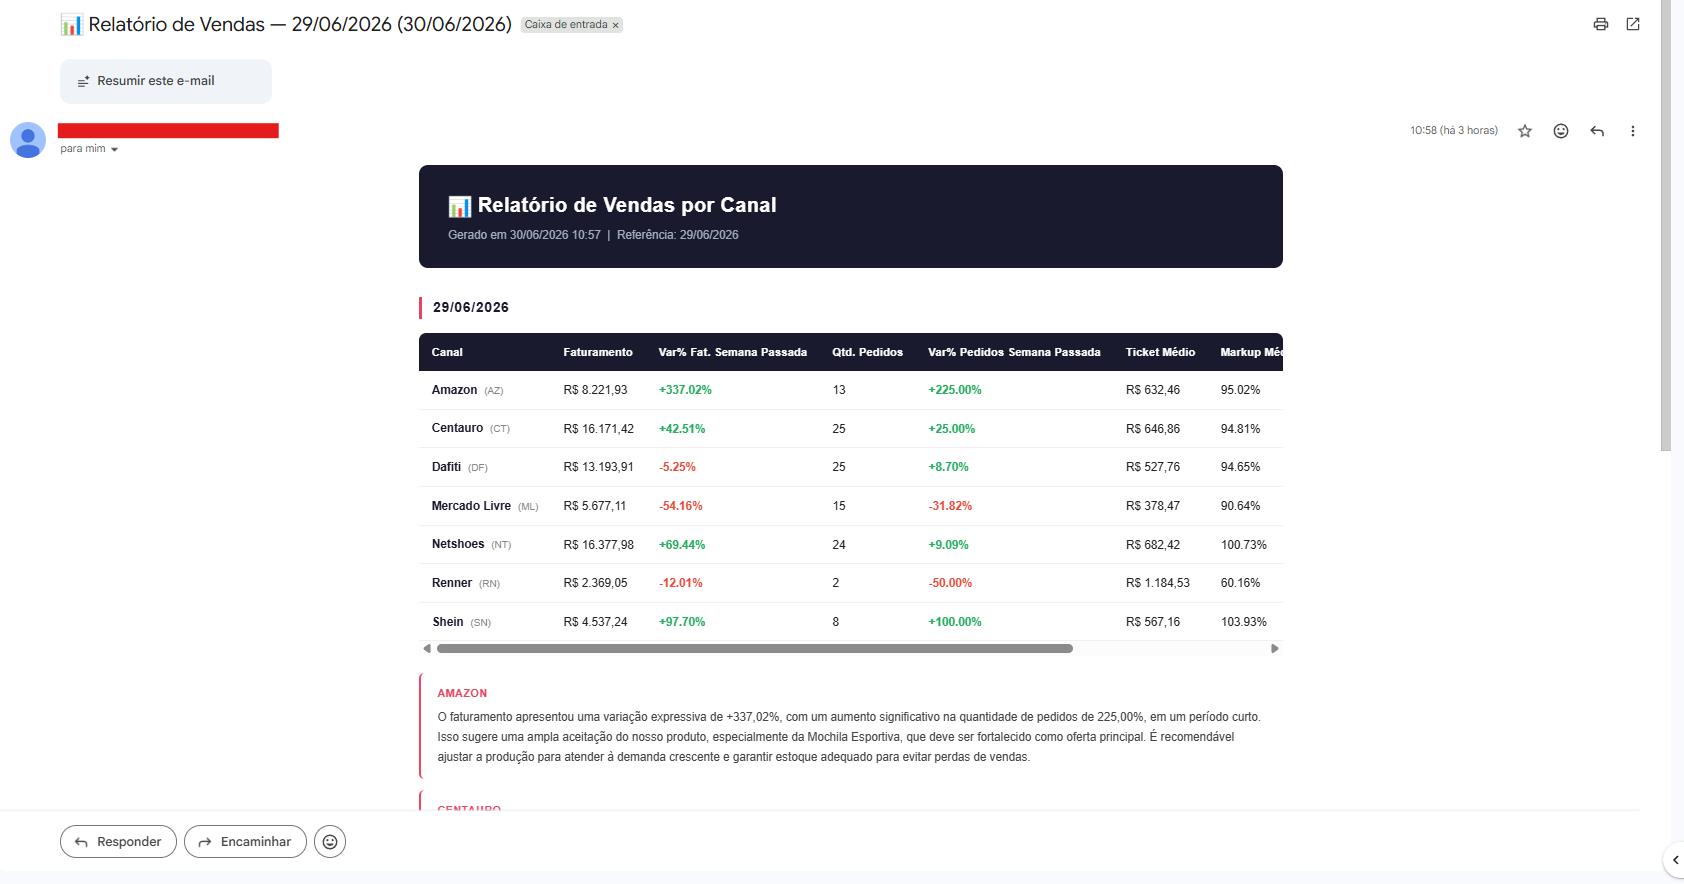
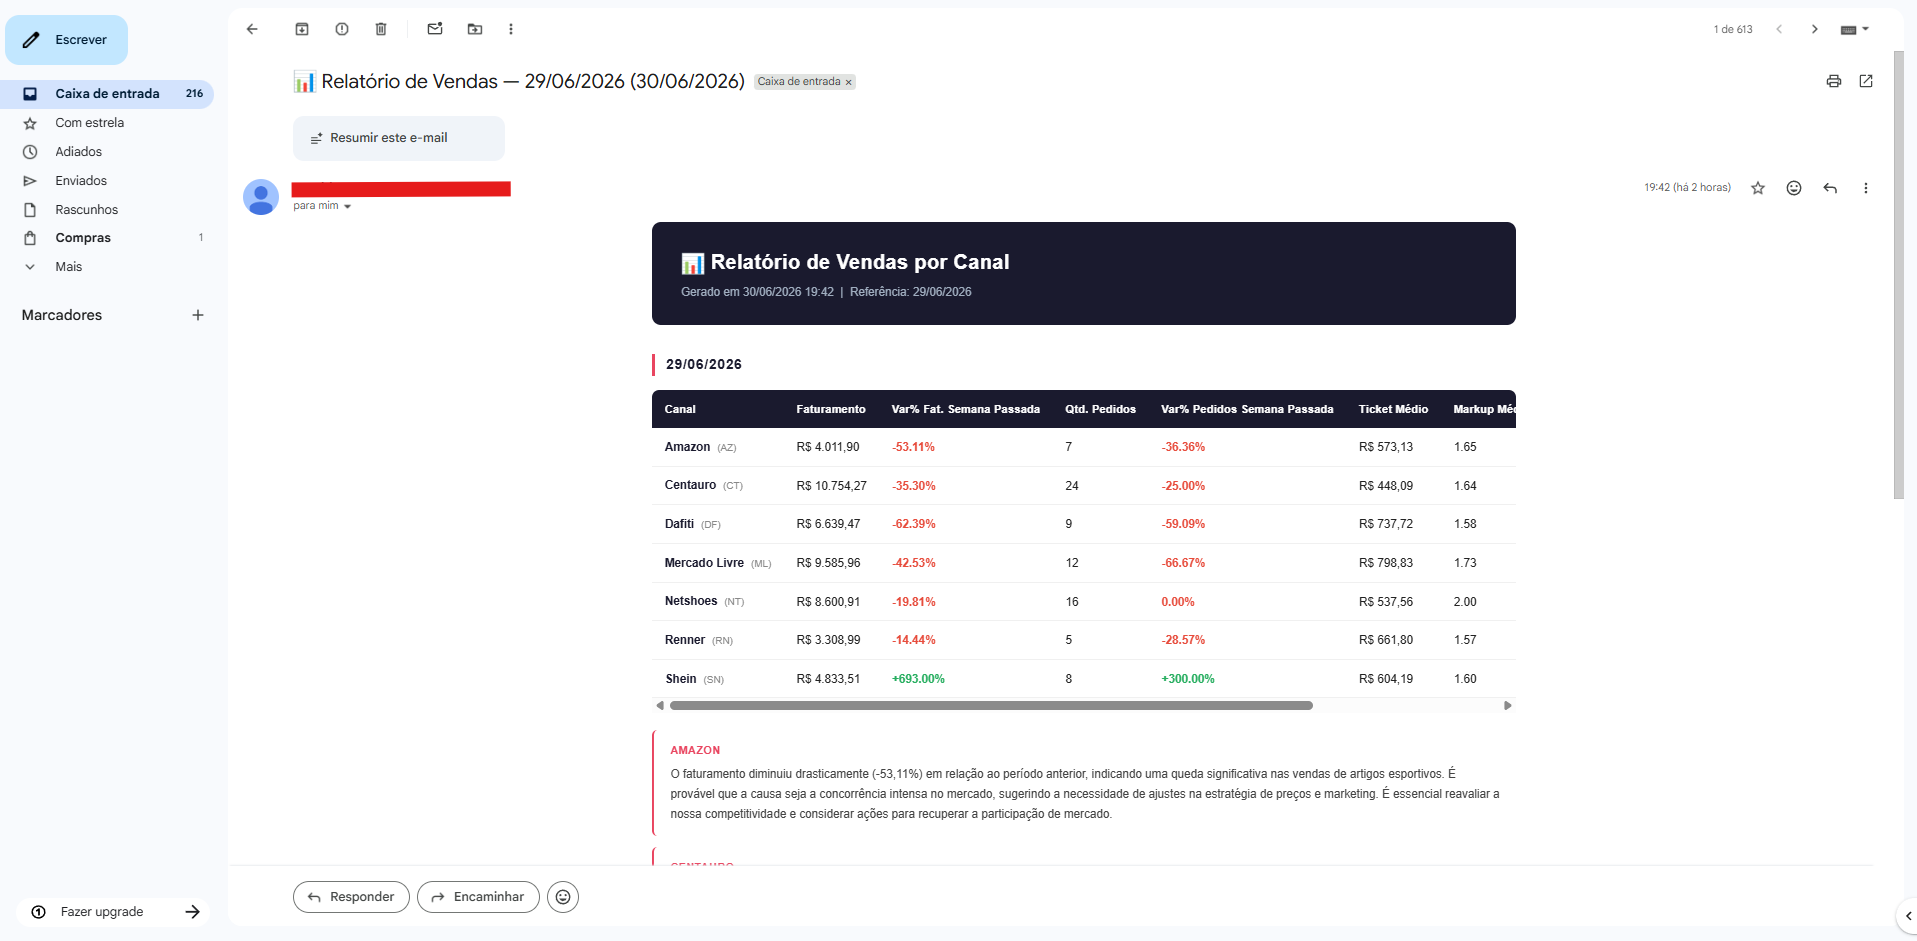
Alterando README

diff --git a/src/generate_dataset.py b/src/generate_dataset.py
@@ -99,11 +99,10 @@ def gerar_item(canal, data):
     produto = random.choice(PRODUTOS[categoria])
 
     preco_min, preco_max = FAIXA_PRECO[categoria]
-    mkp_min, mkp_max = FAIXA_MARKUP[categoria]
 
     valor_unitario = round(random.uniform(preco_min, preco_max), 2)
-    markup = round(random.uniform(mkp_min, mkp_max), 2)
-    custo_unitario = round(valor_unitario / (1 + markup / 100), 2)
+    custo_unitario = round(random.uniform(valor_unitario * 0.4, valor_unitario * 0.8), 2)
+    markup = round(valor_unitario / custo_unitario, 2)
     qtde = random.randint(1, 3)
     valor_liquido = round(valor_unitario * qtde, 2)
     custo_total = round(custo_unitario * qtde, 2)

diff --git a/src/report.py b/src/report.py
@@ -378,7 +378,7 @@ def preparar_periodos(resultados):
                 'faturamento': fmt_moeda(row['faturamento']),
                 'qtd_pedidos': int(row['qtd_pedidos']),
                 'ticket_medio': fmt_moeda(row['ticket_medio']),
-                'markup_medio': f"{row['markup_medio']:.2f}%",
+                'markup_medio': f"{row['markup_medio']:.2f}",
                 'margem_contribuicao': f"{row['margem_contribuicao']:.2f}%",
                 'top_produto': row['top_produto'],
                 'var_faturamento': fmt_pct(row.get('var_faturamento')),